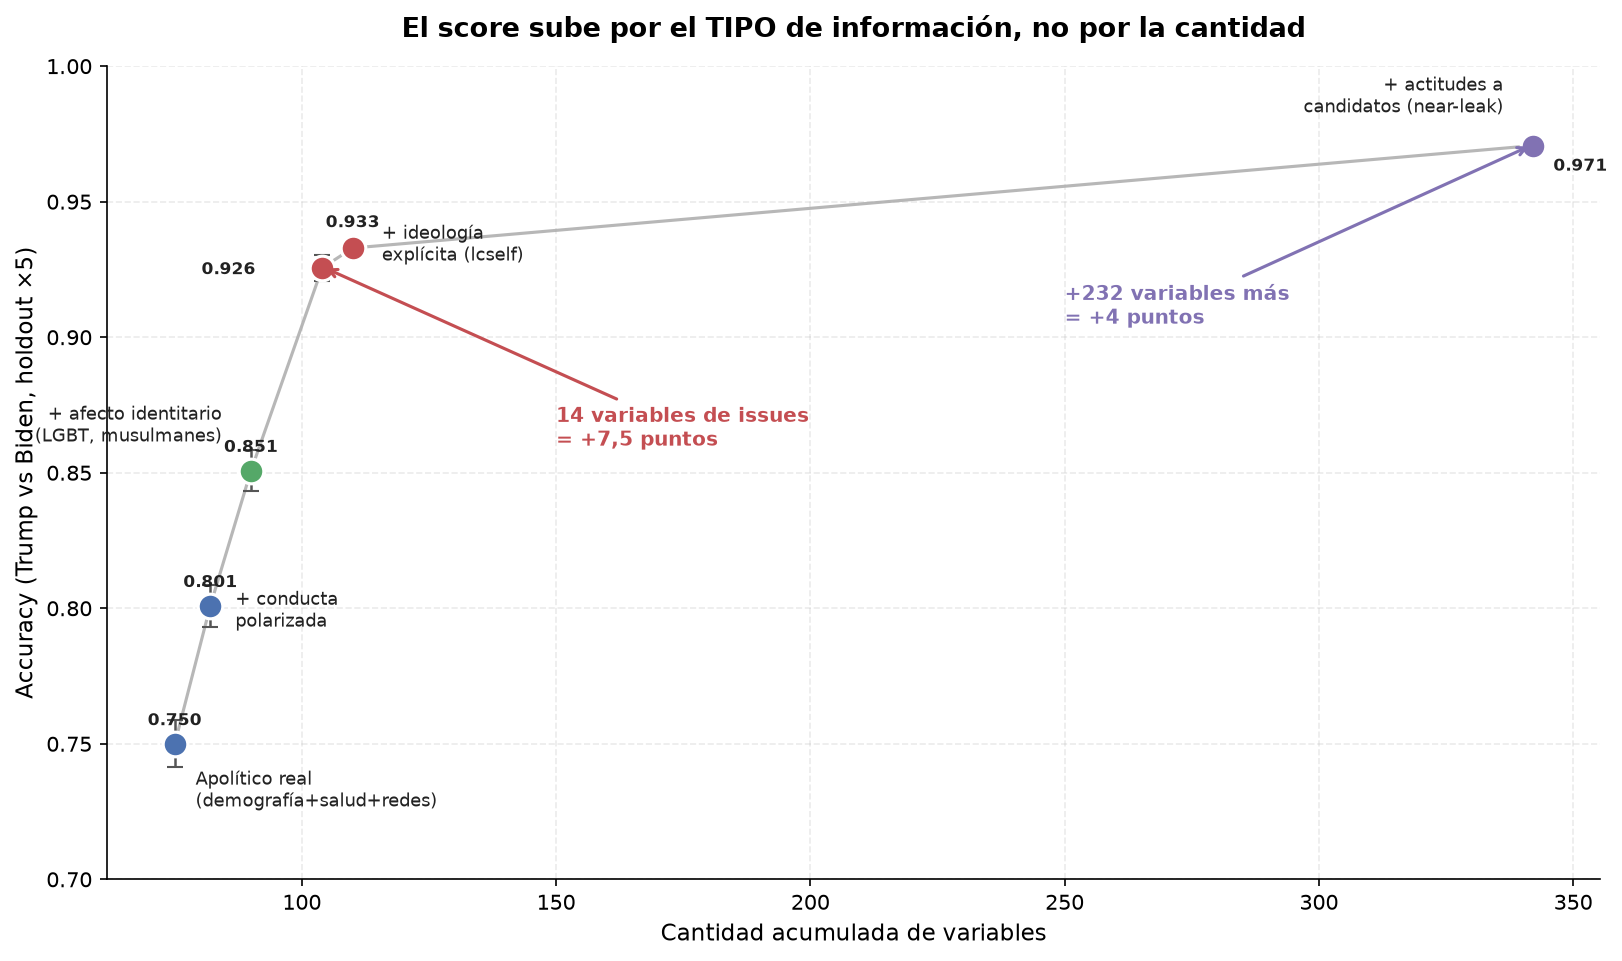
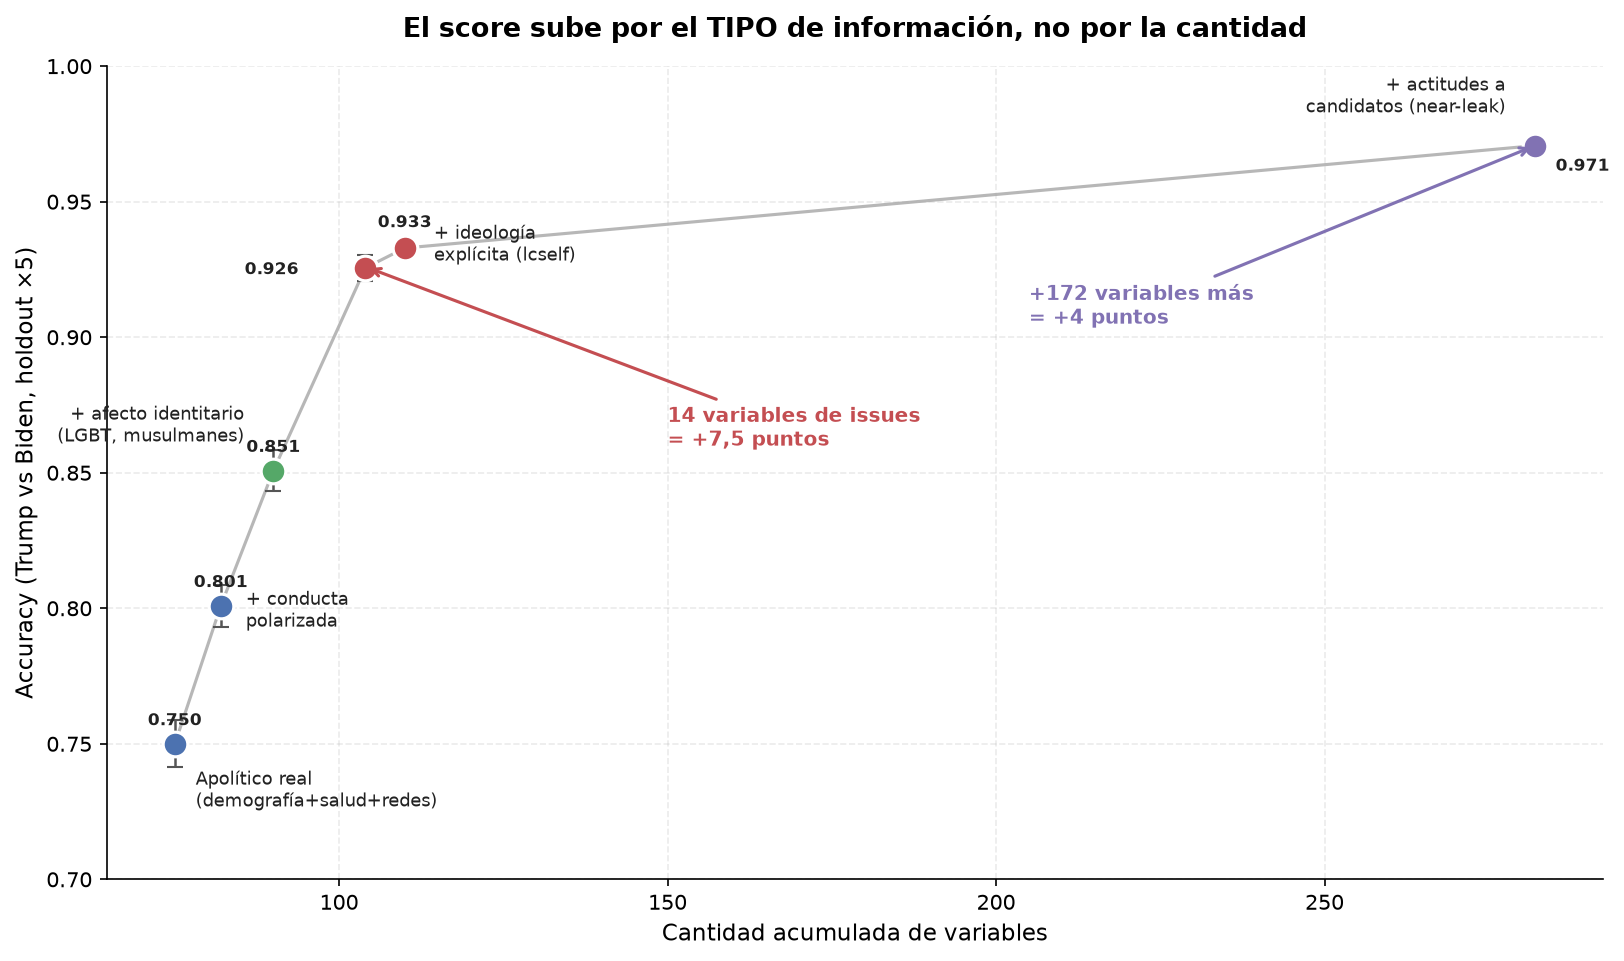
PDF: nivel 4 presentado depurado de entrada (no como correccion) + conclusiones
Nivel 4 = 282 vars (sin paradata ni leak directo) en todo el PDF: tabla resumen,
grafico (282, +172), permutation por escenario y explicacion. Elimina la pagina
de 'correccion'. Agrega seccion de Conclusiones (5 puntos + sintesis).

diff --git a/generar_pdf_escenarios.py b/generar_pdf_escenarios.py
@@ -27,7 +27,7 @@ FILAS = [
     ("+ afecto identitario",       8,  90, "0,851", "+0,05",   C_IDENT),
     ("+ posiciones de issues",    14, 104, "0,926", "+0,075",  C_ISSUE),
     ("+ ideología explícita",      6, 110, "0,933", "+0,01",   C_ISSUE),
-    ("+ actitudes a candidatos",  232, 342, "0,971", "+0,04",  C_LEAK),
+    ("+ actitudes a candidatos",  172, 282, "0,971", "+0,04",  C_LEAK),
 ]
 
 # explicaciones: (titulo, color, accuracy, contenido_html, porque_html)
@@ -89,14 +89,15 @@ SECCIONES = [
      "persona sobre aborto, clima y armas."),
 
     ("4 · + actitudes a candidatos (near-leakage)", C_LEAK, "0,971",
-     "Todo el resto de variables pre-elección, incluidas las que están "
-     "<b>peligrosamente cerca</b> de preguntar el voto:"
-     "<br/>• termómetros a Trump / Biden / partidos, intención de voto, "
-     "“qué partido es mejor en X”, aprobación presidencial.",
-     "Se incluye solo como <b>techo de referencia</b>. Son 232 variables "
-     "adicionales que aportan apenas +4 puntos: confirma que la señal útil ya "
-     "estaba en los issues. <b>No se usan en el modelo final</b> por riesgo de "
-     "leakage."),
+     "Las actitudes más explícitas hacia los candidatos, <b>depurando de entrada</b> "
+     "la paradata (tiempos de respuesta, orden de ítems) y el leak directo del voto "
+     "(intención de voto, voto a otros cargos, primaria):"
+     "<br/>• termómetros a Trump / Biden / partidos, aprobación presidencial, "
+     "“qué partido es mejor en X”.",
+     "Son 282 variables (172 más que el nivel anterior) que aportan apenas +4 puntos: "
+     "confirma que la señal útil ya estaba en los issues. Estas actitudes son "
+     "<i>proxies de preferencia</i> (sentir calor por Trump es casi declarar el voto), "
+     "así que el nivel se usa como <b>techo de referencia, no en el modelo final</b>."),
 ]
 
 
@@ -248,13 +249,18 @@ def build():
 
     with open("perm_escenarios.json", encoding="utf-8") as f:
         perm = json.load(f)
+    with open("perm_escenario_limpio.json", encoding="utf-8") as f:
+        perm_limpio = json.load(f)   # nivel 4 depurado (sin paradata ni leak directo)
 
     perm_lbl = ParagraphStyle("perm_lbl", parent=ss["Normal"], fontSize=9, leading=11)
     perm_bar = ParagraphStyle("perm_bar", parent=ss["Normal"], fontSize=8.5,
                               fontName="Courier", leading=11)
 
     for nom, _, _, acc, _, col in FILAS:
-        items = perm.get(nom, [])
+        if nom == "+ actitudes a candidatos":
+            items = perm_limpio[:8]          # top depurado, interpretable
+        else:
+            items = perm.get(nom, [])
         if not items:
             continue
         mx = max(m for _, m, _ in items) or 1.0
@@ -287,73 +293,10 @@ def build():
         "Lectura: en el nivel <b>apolítico</b> mandan el ser <b>evangélico</b> y la "
         "<b>raza/etnia</b> (la espina dorsal sociológica del voto). Al sumar issues, "
         "los <b>termómetros a policía, periodistas y socialistas</b> y el "
-        "<b>control de armas</b> pasan al frente. En <b>near-leakage</b> las "
-        "importancias se <b>desploman</b> (~0,3 pts): con 342 variables todo está "
-        "tan duplicado que permutar una sola casi no mueve el accuracy.", cap))
-
-    # ---- nivel 4 limpio: sin leaks ni paradata, con termometros ----
-    el.append(PageBreak())
-    el.append(Paragraph("Nivel 4 “limpio”: sin leaks ni paradata", h1))
-    el.append(Paragraph(
-        "El nivel 4 original incluía <b>basura</b> que se colaba: <b>paradata</b> "
-        "(tiempos de respuesta <i>total_time_*</i> y orden de los termómetros "
-        "<i>ft_order_*</i>) y <b>leak directo</b> del voto (intención de voto "
-        "<i>vote20d1</i>, voto a Cámara <i>voterep</i>, la primaria demócrata). "
-        "Quitamos <b>60 variables</b> (46 paradata + 14 leak) y mantuvimos los "
-        "<b>termómetros sustantivos</b>. Resultado:", intro))
-
-    comp = Table([
-        ["Escenario", "Variables", "Accuracy"],
-        ["Nivel 4 original (con leaks + paradata)", "342", "0,971"],
-        ["Nivel 4 limpio (sin leaks/paradata, con termómetros)", "282", "0,971"],
-    ], colWidths=[10.5 * cm, 2.5 * cm, 2.5 * cm])
-    comp.setStyle(TableStyle([
-        ("FONTNAME", (0, 0), (-1, 0), "Helvetica-Bold"),
-        ("FONTNAME", (2, 1), (2, -1), "Helvetica-Bold"),
-        ("FONTSIZE", (0, 0), (-1, -1), 9.5),
-        ("BACKGROUND", (0, 0), (-1, 0), colors.HexColor("#333333")),
-        ("TEXTCOLOR", (0, 0), (-1, 0), colors.white),
-        ("ALIGN", (1, 0), (-1, -1), "CENTER"),
-        ("TOPPADDING", (0, 0), (-1, -1), 5), ("BOTTOMPADDING", (0, 0), (-1, -1), 5),
-        ("LINEBELOW", (0, 0), (-1, -1), 0.4, colors.HexColor("#CCCCCC")),
-        ("BACKGROUND", (0, 2), (-1, 2), colors.HexColor("#EEEBF5")),
-    ]))
-    el.append(comp)
-    el.append(Paragraph(
-        "<b>Idéntico (0,971 = 0,971).</b> Las 60 variables eliminadas no aportaban "
-        "<b>nada</b>: la paradata era ruido y el leak directo era redundante con los "
-        "termómetros. Confirma que sacar esa basura es gratis.", body))
-    el.append(Spacer(1, 0.3 * cm))
-
-    # permutation top del limpio
-    with open("perm_escenario_limpio.json", encoding="utf-8") as f:
-        limpio = json.load(f)
-    mx = max(m for _, m, _ in limpio) or 1.0
-    filas = []
-    for v, mean, std in limpio:
-        n = max(1, round(10 * mean / mx)) if mean > 0 else 0
-        filas.append([Paragraph(legible(v), perm_lbl),
-                      Paragraph(f'<font color="#{C_LEAK.hexval()[2:]}">{"█" * n}</font> '
-                                f"{mean*100:.1f}", perm_bar)])
-    tt = Table(filas, colWidths=[7.0 * cm, 8.5 * cm])
-    tt.setStyle(TableStyle([
-        ("FONTSIZE", (0, 0), (-1, -1), 9),
-        ("TOPPADDING", (0, 0), (-1, -1), 1.5), ("BOTTOMPADDING", (0, 0), (-1, -1), 1.5),
-        ("LINEBEFORE", (0, 0), (0, -1), 3, C_LEAK), ("LEFTPADDING", (0, 0), (0, -1), 8),
-        ("VALIGN", (0, 0), (-1, -1), "MIDDLE"),
-    ]))
-    el.append(KeepTogether([
-        Paragraph(f'<font color="#{C_LEAK.hexval()[2:]}">■</font> '
-                  "<b>Top variables del nivel 4 limpio</b>  ·  accuracy 0,971", sec_t),
-        tt,
-    ]))
-    el.append(Paragraph(
-        "Ahora el ranking es honesto y se entiende: domina el <b>termómetro a "
-        "Trump</b> (−1,4 pts), seguido de la <b>aprobación a Trump</b> y los "
-        "termómetros a <b>Biden / Demócratas</b>. <b>Ojo:</b> estos siguen siendo "
-        "<i>proxies de preferencia</i> (sentir frío/calor por Trump es casi declarar "
-        "el voto). Por eso el <b>modelo final del proyecto no usa el nivel 4</b>: es "
-        "el techo de referencia, no un predictor legítimo.", cap))
+        "<b>control de armas</b> pasan al frente. En el nivel <b>near-leakage</b> "
+        "domina el <b>termómetro a Trump</b> (−1,4 pts) y la <b>aprobación "
+        "presidencial</b>: son actitudes hacia los candidatos, casi sinónimos del "
+        "voto — por eso este nivel es solo <b>techo de referencia</b>.", cap))
 
     # ---- grafico embebido ----
     el.append(Spacer(1, 0.3 * cm))
@@ -375,9 +318,60 @@ def build():
     seccion_pid_voto(el, ss, h1, intro, sec_t, body, cap)
     # ---- C) optimizacion de hiperparametros ----
     seccion_hiperparametros(el, ss, h1, intro, sec_t, body, cap)
+    # ---- D) conclusiones ----
+    seccion_conclusiones(el, ss, h1, intro, sec_t, body, cap)
 
     doc.build(el)
     print("guardado: escenarios_por_tipo.pdf")
+
+
+def seccion_conclusiones(el, ss, h1, intro, sec_t, body, cap):
+    from reportlab.platypus import PageBreak
+    el.append(PageBreak())
+    el.append(Paragraph("Conclusiones", h1))
+    el.append(Paragraph(
+        "El proyecto no buscó solo “predecir el voto”, sino entender <b>qué tipo de "
+        "información</b> lo determina y dónde está el límite de lo predecible. Los "
+        "resultados convergen en cinco ideas:", intro))
+
+    puntos = [
+        ("El voto se explica por las actitudes políticas, no por la demografía.",
+         "Saber edad, raza, educación y qué redes usás deja ~0,72-0,75. Lo que lleva "
+         "el accuracy a >0,93 son las <b>posiciones concretas sobre issues</b> "
+         "(aborto, clima, armas): el salto grande lo dan 14 variables, no la masa de "
+         "datos sociodemográficos."),
+        ("La ideología vive en las posiciones, no en la etiqueta.",
+         "Conocidas las opiniones sobre los issues, agregar la autoubicación "
+         "izquierda-derecha aporta apenas +1 punto: “soy conservador” es casi "
+         "información redundante de lo que la persona ya opina."),
+        ("El cuello de botella es la información, no el modelo.",
+         "El tuning de hiperparámetros mueve milésimas; LogReg, RandomForest y "
+         "XGBoost convergen cuando hay señal; y reducir el train de 75% a 60% no "
+         "cambia el resultado. Lo único que movió la aguja fue <b>sumar información "
+         "de otro tipo</b>."),
+        ("Hay un techo irreducible: los votantes “incoherentes”.",
+         "El ~3-6% de error no es azar ni falla del modelo: son <b>votantes "
+         "cruzados</b> (votan contra su partido e ideología), que explican hasta el "
+         "76% de los errores. Su voto no es función de las actitudes medidas, así que "
+         "<b>ningún modelo puede llegar a 100%</b>."),
+        ("Disciplina metodológica.",
+         "Distinguir <i>leakage</i> de predisposición estable; mirar f1_macro y recall "
+         "por clase ante el desbalance (las minorías son inmodelables); reportar con "
+         "barras de error y no sobre-leer un único split. Modelamos el problema como "
+         "<b>binario</b> (Trump vs Biden) por estas razones, no por comodidad."),
+    ]
+    for i, (tit, txt) in enumerate(puntos, start=1):
+        el.append(Paragraph(f"<b>{i} · {tit}</b>", body))
+        el.append(Paragraph(txt, ParagraphStyle(
+            "cc", parent=body, leftIndent=12, spaceAfter=8)))
+
+    el.append(Spacer(1, 0.2 * cm))
+    el.append(Paragraph(
+        "<b>En una frase:</b> en un electorado polarizado, el voto es casi un "
+        "sinónimo de las actitudes políticas —tanto que conocerlas alcanza para "
+        "predecirlo con >0,93—, y lo que queda sin explicar no es ignorancia del "
+        "modelo sino la parte genuinamente idiosincrática de la decisión humana.",
+        intro))
 
 
 def _cfg_str(p):

diff --git a/grafico_escalera.py b/grafico_escalera.py
@@ -59,16 +59,18 @@ def main():
         nombres.append(nom); nvars.append(n); medias.append(m); desvios.append(s)
         print(f"{nom.replace(chr(10),' '):42s} feats={n:3d}  acc={m:.3f}+-{s:.3f}")
 
-    # punto final: todo pre-eleccion (near-leakage)
+    # punto final: near-leakage DEPURADO (sin paradata ni leak directo del voto)
+    import exp_escenario_limpio as L
+    _, Xlimpio, _ = L.construir(df)
     accs = []
     for seed in range(5):
-        Xtr, Xte, ytr, yte = train_test_split(Xfull, y, test_size=0.25,
+        Xtr, Xte, ytr, yte = train_test_split(Xlimpio, y, test_size=0.25,
                                               random_state=seed, stratify=y)
         mdl = XGBClassifier(**S.XGB_PARAMS).fit(Xtr, ytr)
         accs.append(accuracy_score(yte, mdl.predict(Xte)))
     nombres.append("+ actitudes a\ncandidatos (near-leak)")  # near-leakage
-    nvars.append(Xfull.shape[1]); medias.append(np.mean(accs)); desvios.append(np.std(accs))
-    print(f"{'+ near-leakage (todo pre-eleccion)':42s} feats={Xfull.shape[1]:3d}  "
+    nvars.append(Xlimpio.shape[1]); medias.append(np.mean(accs)); desvios.append(np.std(accs))
+    print(f"{'+ near-leakage (depurado)':42s} feats={Xlimpio.shape[1]:3d}  "
           f"acc={np.mean(accs):.3f}+-{np.std(accs):.3f}")
 
     colores = [c for _, _, c in BLOQUES] + ["#8172B3"]
@@ -111,8 +113,8 @@ def main():
                 xy=(104, 0.926), xytext=(150, 0.86),
                 fontsize=9.5, color="#C44E52", fontweight="bold",
                 arrowprops=dict(arrowstyle="->", color="#C44E52", lw=1.5))
-    ax.annotate("+232 variables más\n= +4 puntos",
-                xy=(342, 0.971), xytext=(250, 0.905),
+    ax.annotate("+172 variables más\n= +4 puntos",
+                xy=(nvars[-1], medias[-1]), xytext=(205, 0.905),
                 fontsize=9.5, color="#8172B3", fontweight="bold",
                 arrowprops=dict(arrowstyle="->", color="#8172B3", lw=1.5))
 